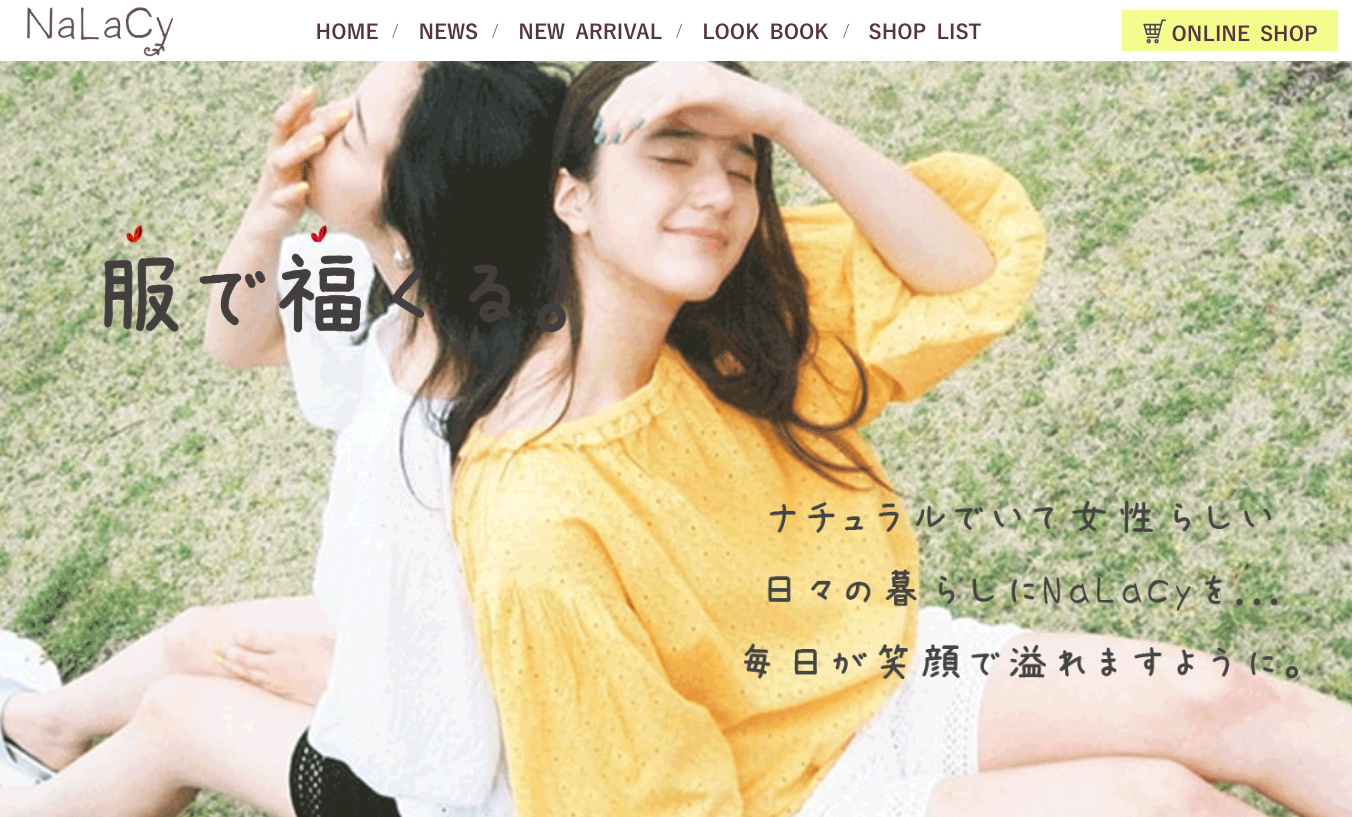
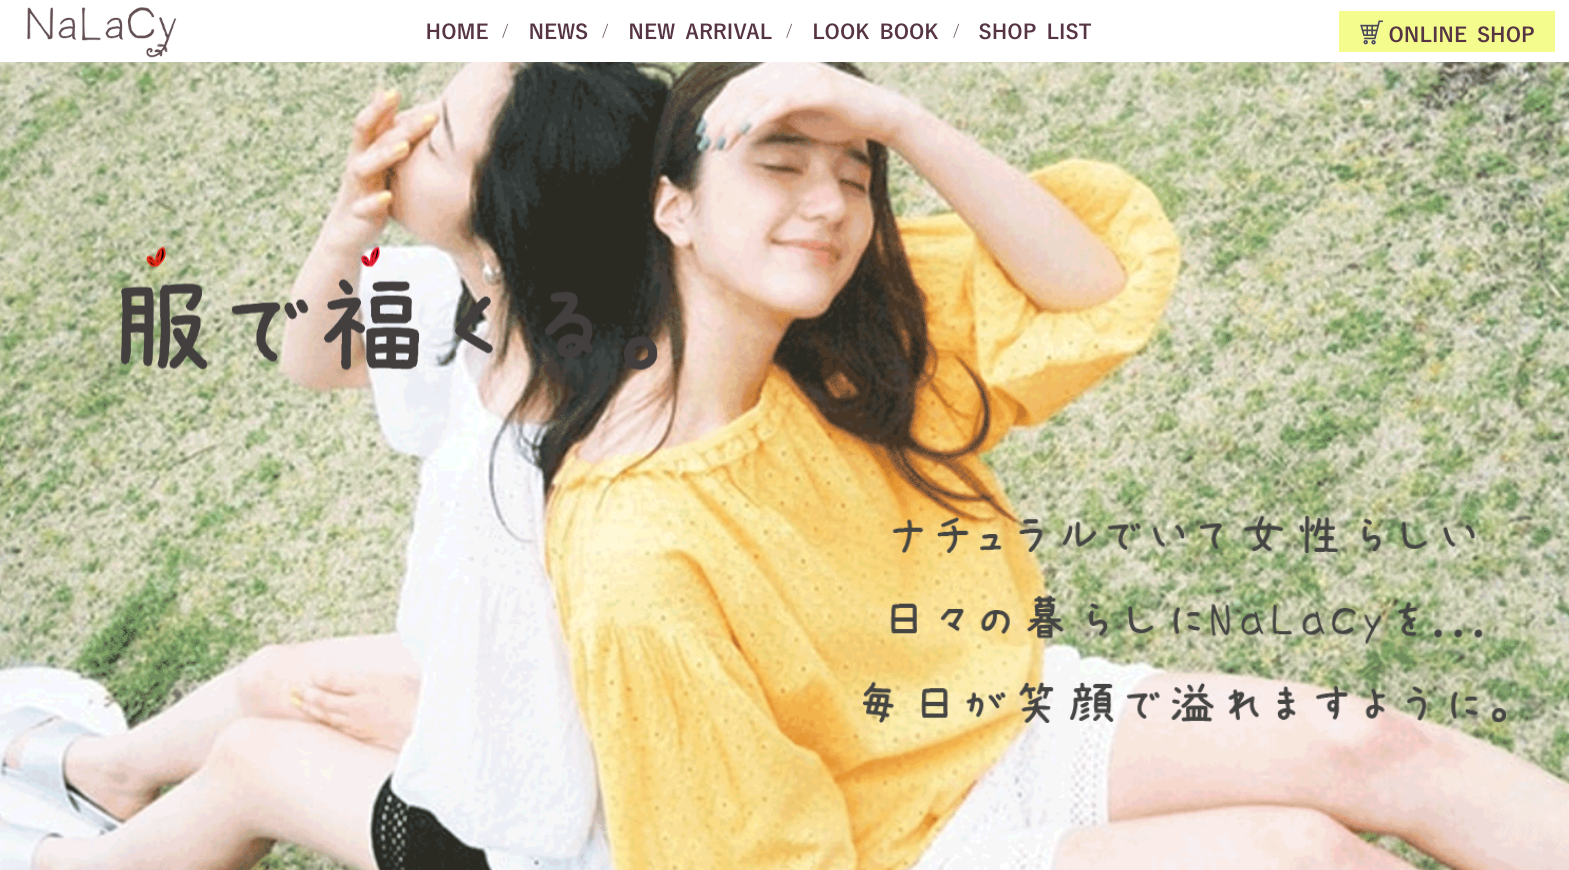
一旦コミット

diff --git a/css/style.css b/css/style.css
@@ -1,1 +1,1 @@
-body{box-sizing:border-box;font-size:14px}.wrapper{box-sizing:border-box;position:relative}.section_ttl{font-size:24px;letter-spacing:3px;margin-bottom:30px;text-align:center}img{box-sizing:border-box;width:100%;height:auto;display:block}.is_none{display:none !important}#header{background-color:#152b4b;position:fixed;top:0;left:0;z-index:10;width:100%}#header .menu-trigger{position:fixed;top:20px;right:50%;transform:translateX(50%)}.gnav_wrap{background-color:#152b4b;display:flex;justify-content:space-around;position:fixed;top:-100%;width:100%}.gnav_wrap .gnav{box-sizing:border-box;width:100%;padding:0 14px}.gnav_wrap .gnav .gnav_list{display:flex;flex-direction:column;padding:68px 0}.gnav_wrap .gnav .gnav_list .gnav_item{border-bottom:1px solid #a1a9b0}.gnav_wrap .gnav .gnav_list .gnav_item:first-child{border-top:1px solid #a1a9b0}.gnav_wrap .gnav .gnav_list a{display:inline-block;width:100%;padding:16px 0;color:#a1a9b0;letter-spacing:2px;text-align:center}#main{background-color:#152b4b;color:#a1a9b0}#main .main_visual{height:100vh;position:relative;background:url(../img/bg/mv_bg.jpg) center/cover fixed no-repeat}#main .main_visual .main_ttl{font-size:40px;color:#a1a9b0;letter-spacing:3px;position:absolute;top:calc(50% - 40px);left:12.5%;transform:translateY(calc(-50% + 40px))}#main .main_visual .main_ttl span{color:#856e07}#main .main_visual:before{content:"";display:block;width:100%;height:100vh;background-color:rgba(27,36,76,0.4);position:absolute;top:0;left:0}.about{width:90%;margin:0 auto 80px;padding-top:24px}.about .about_detail .about_detail_item{padding:20px 0;border-bottom:1px solid #a1a9b0}.about .about_detail .about_detail_item:first-child{border-top:1px solid #a1a9b0;margin-top:0;padding-top:20px}.about .about_detail .about_detail_item .detail_ttl,.about .about_detail .about_detail_item .detail_txt{font-size:14px}.about .about_detail .about_detail_item .detail_ttl{font-weight:bold}.about .about_detail .about_detail_item .detail_txt{padding-left:10px}.about .about_detail .about_detail_item .careerbox div{margin-bottom:20px}.about .about_detail .about_detail_item .careerbox div .career_txt{font-size:14px}.main_portfolio{width:90%;margin:0 auto 80px;padding-top:24px}.main_portfolio .portfolio_list{display:flex;flex-direction:column;width:80%;margin:0 auto}.main_portfolio .portfolio_list .portfolio_item{position:relative;border-radius:3px;overflow:hidden}.main_portfolio .portfolio_list .portfolio_item .portfolio_img_box{box-sizing:border-box}.main_portfolio .portfolio_list .portfolio_item:not(:last-child){margin-bottom:48px}.main_portfolio .portfolio_list .portfolio_item .portfolio_detail_box{box-sizing:border-box;background:rgba(0,0,0,0.8);position:absolute;top:100%;left:0;width:100%;height:100%;display:block;align-items:center}.main_portfolio .portfolio_list .portfolio_item .portfolio_detail_box a{color:#fff;display:flex;flex-direction:column;justify-content:center;align-items:center;height:100%;letter-spacing:3px}.main_portfolio .portfolio_list .portfolio_item .portfolio_detail_box a:after{content:" ";border:solid 1px #fff;display:block;width:55px;margin:15px auto 0}.skill{width:90%;margin:0 auto 80px;padding-top:24px}.skill .skill_list .skillbar{position:relative;display:inline-block;background:#eee;height:34px;border-radius:3px;width:100%;box-shadow:0 1px 6px rgba(0,0,0,0.12) inset}.skill .skill_list .skillbar:not(:last-child){margin-bottom:50px}.skill .skill_list .skillbar .skillbar-title{position:absolute;top:0;left:0;width:76px;font-weight:bold;font-size:12px;color:#ffffff;background:#6adcfa;border-top-left-radius:3px;border-bottom-left-radius:3px;background:rgba(0,0,0,0.1);padding:0 8px;height:34px;line-height:34px}.skill .skill_list .skillbar .skillbar-bar{height:34px;width:0px;background:#6adcfa;border-radius:3px;display:inline-block}.skill .skill_list .skillbar .skill-bar-percent{position:absolute;right:5px;top:0;font-size:11px;height:34px;line-height:34px;color:#a1a9b0}.skill .skill_list .skillbar-html .skillbar-title{background:transparent}.skill .skill_list .skillbar-html .skillbar-bar{background:#e67e22}.skill .skill_list .skillbar-css .skillbar-title{background:transparent}.skill .skill_list .skillbar-css .skillbar-bar{background:#268dd2}.skill .skill_list .skillbar-js .skillbar-title{background:transparent}.skill .skill_list .skillbar-js .skillbar-bar{background:#febb42}.skill .skill_list .skillbar-php .skillbar-title{background:transparent}.skill .skill_list .skillbar-php .skillbar-bar{background:#5a68a5}.skill .skill_list .skillbar-git .skillbar-title{background:transparent}.skill .skill_list .skillbar-git .skillbar-bar{background:#51a4f5}.main_contact{padding:24px 12px 50px;background:#24497f}.main_contact .contact_box form{display:flex;flex-direction:column}.main_contact .contact_box form .form_left{display:flex;flex-direction:column;justify-content:space-between}.main_contact .contact_box form .form_name label,.main_contact .contact_box form .form_email label,.main_contact .contact_box form .form_msg label{font-size:14px}.main_contact .contact_box form .form_name input,.main_contact .contact_box form .form_name textarea,.main_contact .contact_box form .form_email input,.main_contact .contact_box form .form_email textarea,.main_contact .contact_box form .form_msg input,.main_contact .contact_box form .form_msg textarea{box-sizing:border-box;display:block;padding:8px;width:100%;border-radius:3px;box-shadow:none;border:none}.main_contact .contact_box form .form_email{margin-top:30px}.main_contact .contact_box form .form_msg{margin-top:30px}.main_contact .contact_box form .form_msg textarea{background:#fff;height:120px;resize:vertical}#footer{background-color:#1f4070;color:#a1a9b0}#footer .footer_copyright{padding:10px 0;text-align:center}@media screen and (min-width: 768px){body{font-size:16px}.section_ttl{font-size:36px}#header{background-color:#152b4b;position:fixed;top:0;left:0;z-index:10;width:100%}.gnav_wrap{display:flex;width:75%;margin:0 auto;padding:10px 0}.gnav_wrap .gnav .gnav_list{flex-direction:row;justify-content:space-between}.gnav_wrap .gnav .gnav_list a{display:inline-block;padding:8px 30px;color:#a1a9b0;letter-spacing:2px;position:relative;transition:.3s}.gnav_wrap .gnav .gnav_list a:before,.gnav_wrap .gnav .gnav_list a:after{display:block;position:absolute;left:50%;content:"";width:0;height:1px;background:#24497f;transition:.3s;transform:translateX(-50%)}.gnav_wrap .gnav .gnav_list a:before{top:0}.gnav_wrap .gnav .gnav_list a:after{bottom:0}.gnav_wrap .gnav .gnav_list a:hover:before,.gnav_wrap .gnav .gnav_list a:hover:after{width:100%}#main{padding-top:40px}#main .main_visual{height:calc(100vh - 60px);position:relative;background:url(../img/bg/mv_bg.jpg) center/cover fixed no-repeat}#main .main_visual .main_ttl{font-size:64px;color:#a1a9b0;letter-spacing:3px;position:absolute;top:calc(50% - 60px);left:12.5%;transform:translateY(calc(-50% + 60px))}#main .main_visual .main_ttl span{color:#856e07}#main .main_visual:before{content:"";display:block;width:100%;height:calc(100vh - 60px);background-color:rgba(27,36,76,0.4);position:absolute;top:0;left:0}.about{width:90%;margin:0 auto 80px;padding-top:24px}.about .about_detail .about_detail_item{display:flex;padding:20px 0;border-bottom:1px solid #a1a9b0}.about .about_detail .about_detail_item:first-child{border-top:1px solid #a1a9b0;margin-top:0;padding-top:20px}.about .about_detail .about_detail_item .detail_ttl,.about .about_detail .about_detail_item .detail_txt{font-size:18px}.about .about_detail .about_detail_item .detail_ttl{width:16%;margin-right:40px}.about .about_detail .about_detail_item .detail_txt{width:84%}.about .about_detail .about_detail_item .careerbox div{margin-bottom:20px}.about .about_detail .about_detail_item .careerbox div .career_txt{padding-left:24px;font-size:16px}.main_portfolio .portfolio_list{flex-direction:row;justify-content:space-between;flex-wrap:wrap;width:100%}.main_portfolio .portfolio_list .portfolio_item{width:calc(100% / 3 - 12px)}.main_portfolio .portfolio_list .portfolio_item .portfolio_img_box{box-sizing:border-box}.main_portfolio .portfolio_list .portfolio_item:not(:last-child){margin-bottom:0}.main_portfolio .portfolio_list .portfolio_item:nth-child(n+4){margin-top:16px}.skill{width:90%;margin:0 auto 80px;padding-top:24px}.skill .skill_list{width:92%;margin:0 auto}.skill .skill_list .skillbar{height:50px;width:100%}.skill .skill_list .skillbar:not(:last-child){margin-bottom:50px}.skill .skill_list .skillbar:before{content:"";position:absolute;top:50%;left:-48px;transform:translateY(-50%);display:block;width:36px;height:36px}.skill .skill_list .skillbar .skillbar-title{height:50px;line-height:50px}.skill .skill_list .skillbar .skillbar-bar{height:50px}.skill .skill_list .skillbar .skill-bar-percent{height:50px;line-height:50px;right:-45px}.skill .skill_list .skillbar-html:before{background:url(../img/icon/html-5.svg) center/36px 36px no-repeat}.skill .skill_list .skillbar-html .skillbar-title{background:#d35400}.skill .skill_list .skillbar-css:before{background:url(../img/icon/css-3.svg) center/36px 36px no-repeat}.skill .skill_list .skillbar-css .skillbar-title{background:#0c73b8}.skill .skill_list .skillbar-js:before{background:url(../img/icon/javascript.svg) center/36px 36px no-repeat}.skill .skill_list .skillbar-js .skillbar-title{background:#e5a228}.skill .skill_list .skillbar-php:before{background:url(../img/icon/php.svg) center/36px 36px no-repeat}.skill .skill_list .skillbar-php .skillbar-title{background:#46465e}.skill .skill_list .skillbar-git:before{background:url(../img/icon/git-icon.svg) center/36px 36px no-repeat}.skill .skill_list .skillbar-git .skillbar-title{background:#4183c4}.main_contact{width:90%;margin:0 auto}.main_contact .contact_box{width:75%;margin:0 auto}.main_contact .contact_box form{flex-direction:row;justify-content:space-around}.main_contact .contact_box form .form_name input,.main_contact .contact_box form .form_name textarea,.main_contact .contact_box form .form_email input,.main_contact .contact_box form .form_email textarea,.main_contact .contact_box form .form_msg input,.main_contact .contact_box form .form_msg textarea{width:200px}.main_contact .contact_box form .form_email{margin-top:30px}.main_contact .contact_box form .form_msg{margin-top:0}.main_contact .contact_box form .form_msg textarea{width:350px}}
+body{box-sizing:border-box;font-size:14px}.wrapper{box-sizing:border-box;position:relative}.section_ttl{font-size:24px;letter-spacing:3px;margin-bottom:30px;text-align:center}img{box-sizing:border-box;width:100%;height:auto;display:block}.is_none{display:none !important}#header{background-color:#152b4b;position:fixed;top:0;left:0;z-index:10;width:100%}#header .menu-trigger{position:fixed;top:20px;right:50%;transform:translateX(50%)}.gnav_wrap{background-color:#152b4b;display:flex;justify-content:space-around;position:fixed;top:-100%;width:100%}.gnav_wrap .gnav{box-sizing:border-box;width:100%;padding:0 14px}.gnav_wrap .gnav .gnav_list{display:flex;flex-direction:column;padding:68px 0}.gnav_wrap .gnav .gnav_list .gnav_item{border-bottom:1px solid #a1a9b0}.gnav_wrap .gnav .gnav_list .gnav_item:first-child{border-top:1px solid #a1a9b0}.gnav_wrap .gnav .gnav_list a{display:inline-block;width:100%;padding:16px 0;color:#a1a9b0;letter-spacing:2px;text-align:center}#main{background-color:#152b4b;color:#a1a9b0}#main .main_visual{height:100vh;position:relative;background:url(../img/bg/mv_bg.jpg) center/cover fixed no-repeat}#main .main_visual .main_ttl{font-size:40px;color:#a1a9b0;letter-spacing:3px;position:absolute;top:calc(50% - 40px);left:12.5%;transform:translateY(calc(-50% + 40px))}#main .main_visual .main_ttl span{color:#856e07}#main .main_visual:before{content:"";display:block;width:100%;height:100vh;background-color:rgba(27,36,76,0.4);position:absolute;top:0;left:0}.about{width:90%;margin:0 auto 80px;padding-top:24px}.about .about_detail .about_detail_item{padding:20px 0;border-bottom:1px solid #a1a9b0}.about .about_detail .about_detail_item:first-child{border-top:1px solid #a1a9b0;margin-top:0;padding-top:20px}.about .about_detail .about_detail_item .detail_ttl,.about .about_detail .about_detail_item .detail_txt{font-size:14px}.about .about_detail .about_detail_item .detail_ttl{font-weight:bold}.about .about_detail .about_detail_item .detail_txt{padding-left:10px}.about .about_detail .about_detail_item .careerbox div{margin-bottom:20px}.about .about_detail .about_detail_item .careerbox div .career_txt{font-size:14px}.main_portfolio{width:90%;margin:0 auto 80px;padding-top:24px}.main_portfolio .portfolio_list{display:flex;flex-direction:column;width:80%;margin:0 auto}.main_portfolio .portfolio_list .portfolio_item{position:relative;border-radius:3px;overflow:hidden}.main_portfolio .portfolio_list .portfolio_item .portfolio_img_box{box-sizing:border-box}.main_portfolio .portfolio_list .portfolio_item:not(:last-child){margin-bottom:48px}.main_portfolio .portfolio_list .portfolio_item .portfolio_detail_box{box-sizing:border-box;background:rgba(0,0,0,0.8);position:absolute;top:100%;left:0;width:100%;height:100%;display:block;align-items:center}.main_portfolio .portfolio_list .portfolio_item .portfolio_detail_box a{color:#fff;display:flex;flex-direction:column;justify-content:center;align-items:center;height:100%;letter-spacing:3px}.main_portfolio .portfolio_list .portfolio_item .portfolio_detail_box a:after{content:" ";border:solid 1px #fff;display:block;width:55px;margin:15px auto 0}.skill{width:90%;margin:0 auto 80px;padding-top:24px}.skill .skill_list .skillbar{position:relative;display:inline-block;background:#eee;height:34px;border-radius:3px;width:100%;box-shadow:0 1px 6px rgba(0,0,0,0.12) inset}.skill .skill_list .skillbar:not(:last-child){margin-bottom:50px}.skill .skill_list .skillbar .skillbar-title{position:absolute;top:0;left:0;width:76px;font-weight:bold;font-size:12px;color:#ffffff;background:#6adcfa;border-top-left-radius:3px;border-bottom-left-radius:3px;background:rgba(0,0,0,0.1);padding:0 8px;height:34px;line-height:34px}.skill .skill_list .skillbar .skillbar-bar{height:34px;width:0px;background:#6adcfa;border-radius:3px;display:inline-block}.skill .skill_list .skillbar .skill-bar-percent{position:absolute;right:5px;top:0;font-size:11px;height:34px;line-height:34px;color:#a1a9b0}.skill .skill_list .skillbar-html .skillbar-title{background:transparent}.skill .skill_list .skillbar-html .skillbar-bar{background:#e67e22}.skill .skill_list .skillbar-css .skillbar-title{background:transparent}.skill .skill_list .skillbar-css .skillbar-bar{background:#268dd2}.skill .skill_list .skillbar-js .skillbar-title{background:transparent}.skill .skill_list .skillbar-js .skillbar-bar{background:#febb42}.skill .skill_list .skillbar-php .skillbar-title{background:transparent}.skill .skill_list .skillbar-php .skillbar-bar{background:#5a68a5}.skill .skill_list .skillbar-git .skillbar-title{background:transparent}.skill .skill_list .skillbar-git .skillbar-bar{background:#51a4f5}.main_contact{padding:24px 12px 50px;background:#24497f}.main_contact .contact_box form{display:flex;flex-direction:column}.main_contact .contact_box form .form_left{display:flex;flex-direction:column;justify-content:space-between}.main_contact .contact_box form .form_name label,.main_contact .contact_box form .form_email label,.main_contact .contact_box form .form_msg label{font-size:14px}.main_contact .contact_box form .form_name input,.main_contact .contact_box form .form_name textarea,.main_contact .contact_box form .form_email input,.main_contact .contact_box form .form_email textarea,.main_contact .contact_box form .form_msg input,.main_contact .contact_box form .form_msg textarea{box-sizing:border-box;display:block;padding:8px;width:100%;border-radius:3px;box-shadow:none;border:none}.main_contact .contact_box form .form_email{margin-top:30px}.main_contact .contact_box form .form_msg{margin-top:30px}.main_contact .contact_box form .form_msg textarea{background:#fff;height:120px;resize:vertical}#footer{background-color:#1f4070;color:#a1a9b0}#footer .footer_copyright{padding:10px 0;text-align:center}@media screen and (min-width: 768px){body{font-size:16px}.section_ttl{font-size:36px}#header{background-color:#152b4b;position:fixed;top:0;left:0;z-index:10;width:100%}.gnav_wrap{display:flex;margin:0 auto;padding:10px 0;top:0;width:100%}.gnav_wrap .gnav .gnav_list{flex-direction:row;justify-content:space-between;padding:0;width:75%;margin:0 auto}.gnav_wrap .gnav .gnav_list .gnav_item{border:none}.gnav_wrap .gnav .gnav_list .gnav_item:first-child{border:none}.gnav_wrap .gnav .gnav_list .gnav_item a{display:inline-block;padding:8px 30px;color:#a1a9b0;letter-spacing:2px;position:relative;transition:.3s}.gnav_wrap .gnav .gnav_list .gnav_item a:before,.gnav_wrap .gnav .gnav_list .gnav_item a:after{display:block;position:absolute;left:50%;content:"";width:0;height:1px;background:#a1a9b0;transition:.3s;transform:translateX(-50%)}.gnav_wrap .gnav .gnav_list .gnav_item a:before{top:0}.gnav_wrap .gnav .gnav_list .gnav_item a:after{bottom:0}.gnav_wrap .gnav .gnav_list .gnav_item a:hover:before,.gnav_wrap .gnav .gnav_list .gnav_item a:hover:after{width:100%}#main{padding-top:40px}#main .main_visual{height:calc(100vh - 60px);position:relative;background:url(../img/bg/mv_bg.jpg) center/cover fixed no-repeat}#main .main_visual .main_ttl{font-size:64px;color:#a1a9b0;letter-spacing:3px;position:absolute;top:calc(50% - 60px);left:12.5%;transform:translateY(calc(-50% + 60px))}#main .main_visual .main_ttl span{color:#856e07}#main .main_visual:before{content:"";display:block;width:100%;height:calc(100vh - 60px);background-color:rgba(27,36,76,0.4);position:absolute;top:0;left:0}.about{width:90%;margin:0 auto 80px;padding-top:24px}.about .about_detail .about_detail_item{display:flex;padding:20px 0;border-bottom:1px solid #a1a9b0}.about .about_detail .about_detail_item:first-child{border-top:1px solid #a1a9b0;margin-top:0;padding-top:20px}.about .about_detail .about_detail_item .detail_ttl,.about .about_detail .about_detail_item .detail_txt{font-size:18px}.about .about_detail .about_detail_item .detail_ttl{width:16%;margin-right:40px}.about .about_detail .about_detail_item .detail_txt{width:84%}.about .about_detail .about_detail_item .careerbox div{margin-bottom:20px}.about .about_detail .about_detail_item .careerbox div .career_txt{padding-left:24px;font-size:16px}.main_portfolio .portfolio_list{flex-direction:row;justify-content:space-around;flex-wrap:wrap;width:100%}.main_portfolio .portfolio_list .portfolio_item{width:calc(100% / 3 - 12px)}.main_portfolio .portfolio_list .portfolio_item .portfolio_img_box{box-sizing:border-box}.main_portfolio .portfolio_list .portfolio_item:not(:last-child){margin-bottom:0}.main_portfolio .portfolio_list .portfolio_item:nth-child(n+4){margin-top:16px}.skill{width:90%;margin:0 auto 80px;padding-top:24px}.skill .skill_list{width:92%;margin:0 auto}.skill .skill_list .skillbar{height:50px;width:100%}.skill .skill_list .skillbar:not(:last-child){margin-bottom:50px}.skill .skill_list .skillbar:before{content:"";position:absolute;top:50%;left:-48px;transform:translateY(-50%);display:block;width:36px;height:36px}.skill .skill_list .skillbar .skillbar-title{height:50px;line-height:50px}.skill .skill_list .skillbar .skillbar-bar{height:50px}.skill .skill_list .skillbar .skill-bar-percent{height:50px;line-height:50px;right:-45px}.skill .skill_list .skillbar-html:before{background:url(../img/icon/html-5.svg) center/36px 36px no-repeat}.skill .skill_list .skillbar-html .skillbar-title{background:#d35400}.skill .skill_list .skillbar-css:before{background:url(../img/icon/css-3.svg) center/36px 36px no-repeat}.skill .skill_list .skillbar-css .skillbar-title{background:#0c73b8}.skill .skill_list .skillbar-js:before{background:url(../img/icon/javascript.svg) center/36px 36px no-repeat}.skill .skill_list .skillbar-js .skillbar-title{background:#e5a228}.skill .skill_list .skillbar-php:before{background:url(../img/icon/php.svg) center/36px 36px no-repeat}.skill .skill_list .skillbar-php .skillbar-title{background:#46465e}.skill .skill_list .skillbar-git:before{background:url(../img/icon/git-icon.svg) center/36px 36px no-repeat}.skill .skill_list .skillbar-git .skillbar-title{background:#4183c4}.main_contact{width:90%;margin:0 auto}.main_contact .contact_box{width:75%;margin:0 auto}.main_contact .contact_box form{flex-direction:row;justify-content:space-around}.main_contact .contact_box form .form_name input,.main_contact .contact_box form .form_name textarea,.main_contact .contact_box form .form_email input,.main_contact .contact_box form .form_email textarea,.main_contact .contact_box form .form_msg input,.main_contact .contact_box form .form_msg textarea{width:200px}.main_contact .contact_box form .form_email{margin-top:30px}.main_contact .contact_box form .form_msg{margin-top:0}.main_contact .contact_box form .form_msg textarea{width:350px}}

diff --git a/css/style.scss b/css/style.scss
@@ -386,40 +386,50 @@ PC版_CSS(ブレークポイント:768px)
 
 	.gnav_wrap {
 		display: flex;
-		width: 75%;
 		margin: 0 auto;
 		padding: 10px 0;
+		top: 0;
+		width: 100%;
 		.gnav {
 			.gnav_list {
 				flex-direction: row;
 				justify-content: space-between;
-				a {
-					display: inline-block;
-					padding: 8px 30px;
-					color: $base_fontColor;
-					letter-spacing: 2px;
-					position: relative;
-					transition: .3s;
-					&:before,&:after{
-						display: block;
-						position: absolute;
-						left: 50%;
-						content: "";
-						width: 0;
-						height: 1px;
-						background: #24497f;
+				padding: 0;
+				width: 75%;
+				margin: 0 auto;
+				.gnav_item{
+					border: none;
+					&:first-child{
+						border: none;
+					}
+					a {
+						display: inline-block;
+						padding: 8px 30px;
+						color: $base_fontColor;
+						letter-spacing: 2px;
+						position: relative;
 						transition: .3s;
-						transform: translateX(-50%);
-					}
-					&:before{
-						top: 0;
-					}
-					&:after{
-						bottom: 0;
-					}
-					&:hover:before,
-					&:hover:after{
-						width: 100%;
+						&:before,&:after{
+							display: block;
+							position: absolute;
+							left: 50%;
+							content: "";
+							width: 0;
+							height: 1px;
+							background: #a1a9b0;
+							transition: .3s;
+							transform: translateX(-50%);
+						}
+						&:before{
+							top: 0;
+						}
+						&:after{
+							bottom: 0;
+						}
+						&:hover:before,
+						&:hover:after{
+							width: 100%;
+						}
 					}
 				}
 			}
@@ -501,7 +511,7 @@ PC版_CSS(ブレークポイント:768px)
 	.main_portfolio {
 		.portfolio_list {
 			flex-direction: row;
-			justify-content: space-between;
+			justify-content: space-around;
 			flex-wrap: wrap;
 			width: 100%;
 			.portfolio_item {

diff --git a/index.html b/index.html
@@ -133,22 +133,12 @@
 							</li>
 							<li class="portfolio_item">
 								<div class="portfolio_img_box">
-									<a href="http://i-89.net/member/nashimoto/apparel02/nalacy_top.html" target="_blank">
-										<img src="img/list/portfolio01_pc.png" alt="架空のアパレルサイトです。"/>
+									<a href="http://i-89.net/member/nashimoto/chocofes02/index.html" target="_blank">
+										<img src="img/list/portfolio02_pc.png" alt="架空のアパレルサイトです。"/>
 									</a>
 								</div>
 								<div class="portfolio_detail_box">
-									<a href="http://i-89.net/member/nashimoto/apparel02/nalacy_top.html" target="_blank">NaLaCy</a>
-								</div>
-							</li>
-							<li class="portfolio_item">
-								<div class="portfolio_img_box">
-									<a href="http://i-89.net/member/nashimoto/apparel02/nalacy_top.html" target="_blank">
-										<img src="img/list/portfolio01_pc.png" alt="架空のアパレルサイトです。"/>
-									</a>
-								</div>
-								<div class="portfolio_detail_box">
-									<a href="http://i-89.net/member/nashimoto/apparel02/nalacy_top.html" target="_blank">NaLaCy</a>
+									<a href="http://i-89.net/member/nashimoto/chocofes02/index.html" target="_blank">ChocoFes 2017</a>
 								</div>
 							</li>
 						</ul>
